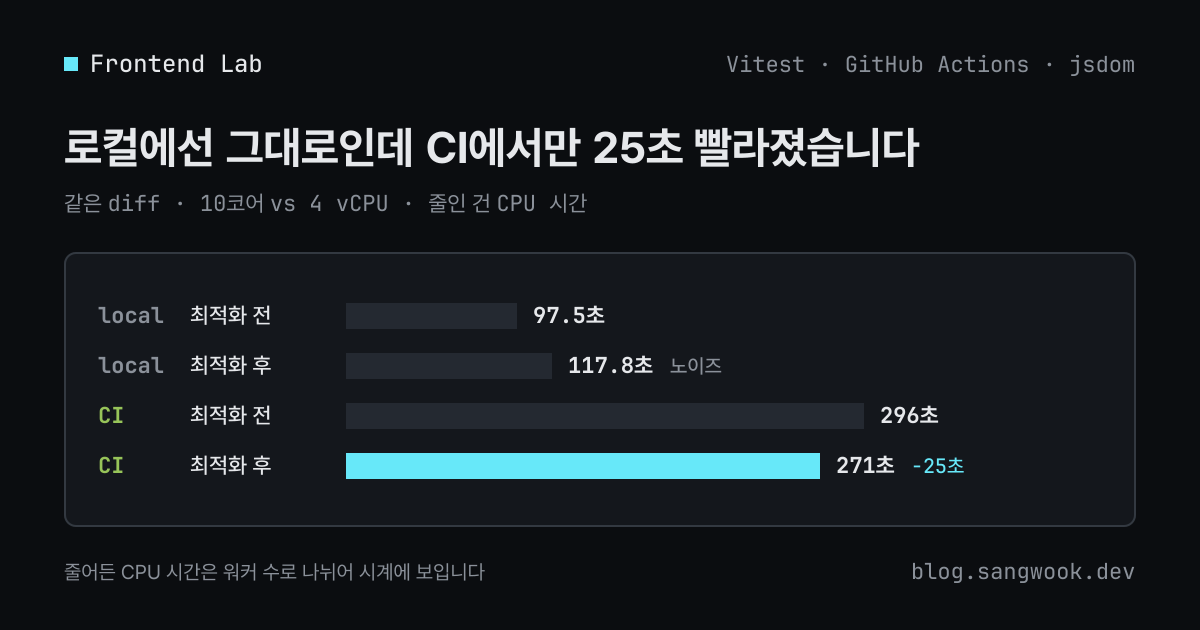
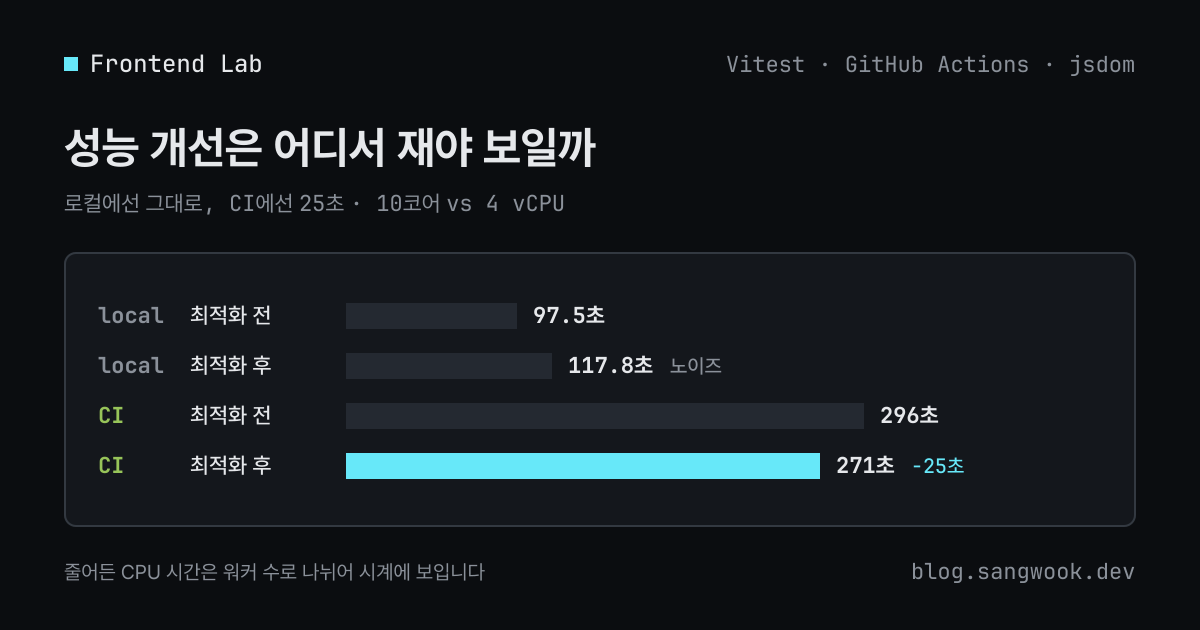
blog(blog): Vitest 분리 글의 제목을 독자의 질문으로 바꾸고 썸네일을 맞춘다
- 제목: 「성능 개선은 어디서 재야 보일까: 로컬에선 그대로, CI에선 25초」 (seoTitle은 유지)
- 썸네일은 9/14와 같은 satori·sharp 카드로 다시 렌더한다. 큰 제목은 질문, 부제는 "로컬에선 그대로, CI에선 25초 · 10코어 vs 4 vCPU", 막대 넷은 그대로

Changed region(s): [[0.0617, 0.181, 0.7708, 0.2714], [0.0617, 0.3016, 0.4933, 0.3619]]

diff --git a/apps/blog/posts/ci/로컬에선 그대로인데 CI에서만 25초 빨라졌습니다.md b/apps/blog/posts/ci/로컬에선 그대로인데 CI에서만 25초 빨라졌습니다.md
@@ -1,5 +1,5 @@
 ---
-title: '로컬에선 그대로인데 CI에서만 25초 빨라졌습니다'
+title: '성능 개선은 어디서 재야 보일까: 로컬에선 그대로, CI에선 25초'
 seoTitle: 'CI에서만 빨라지는 Vitest 최적화'
 date: '2026-09-18'
 excerpt: 'DOM을 안 쓰는 테스트 파일 121개가 파일마다 jsdom을 부팅하던 낭비를 Vitest 프로젝트 분리로 걷어냈습니다. 10코어 로컬에서는 wall time이 그대로였는데 4-vCPU CI에서만 실행당 25초가 줄어든 이유를 실측으로 따라갑니다.'
